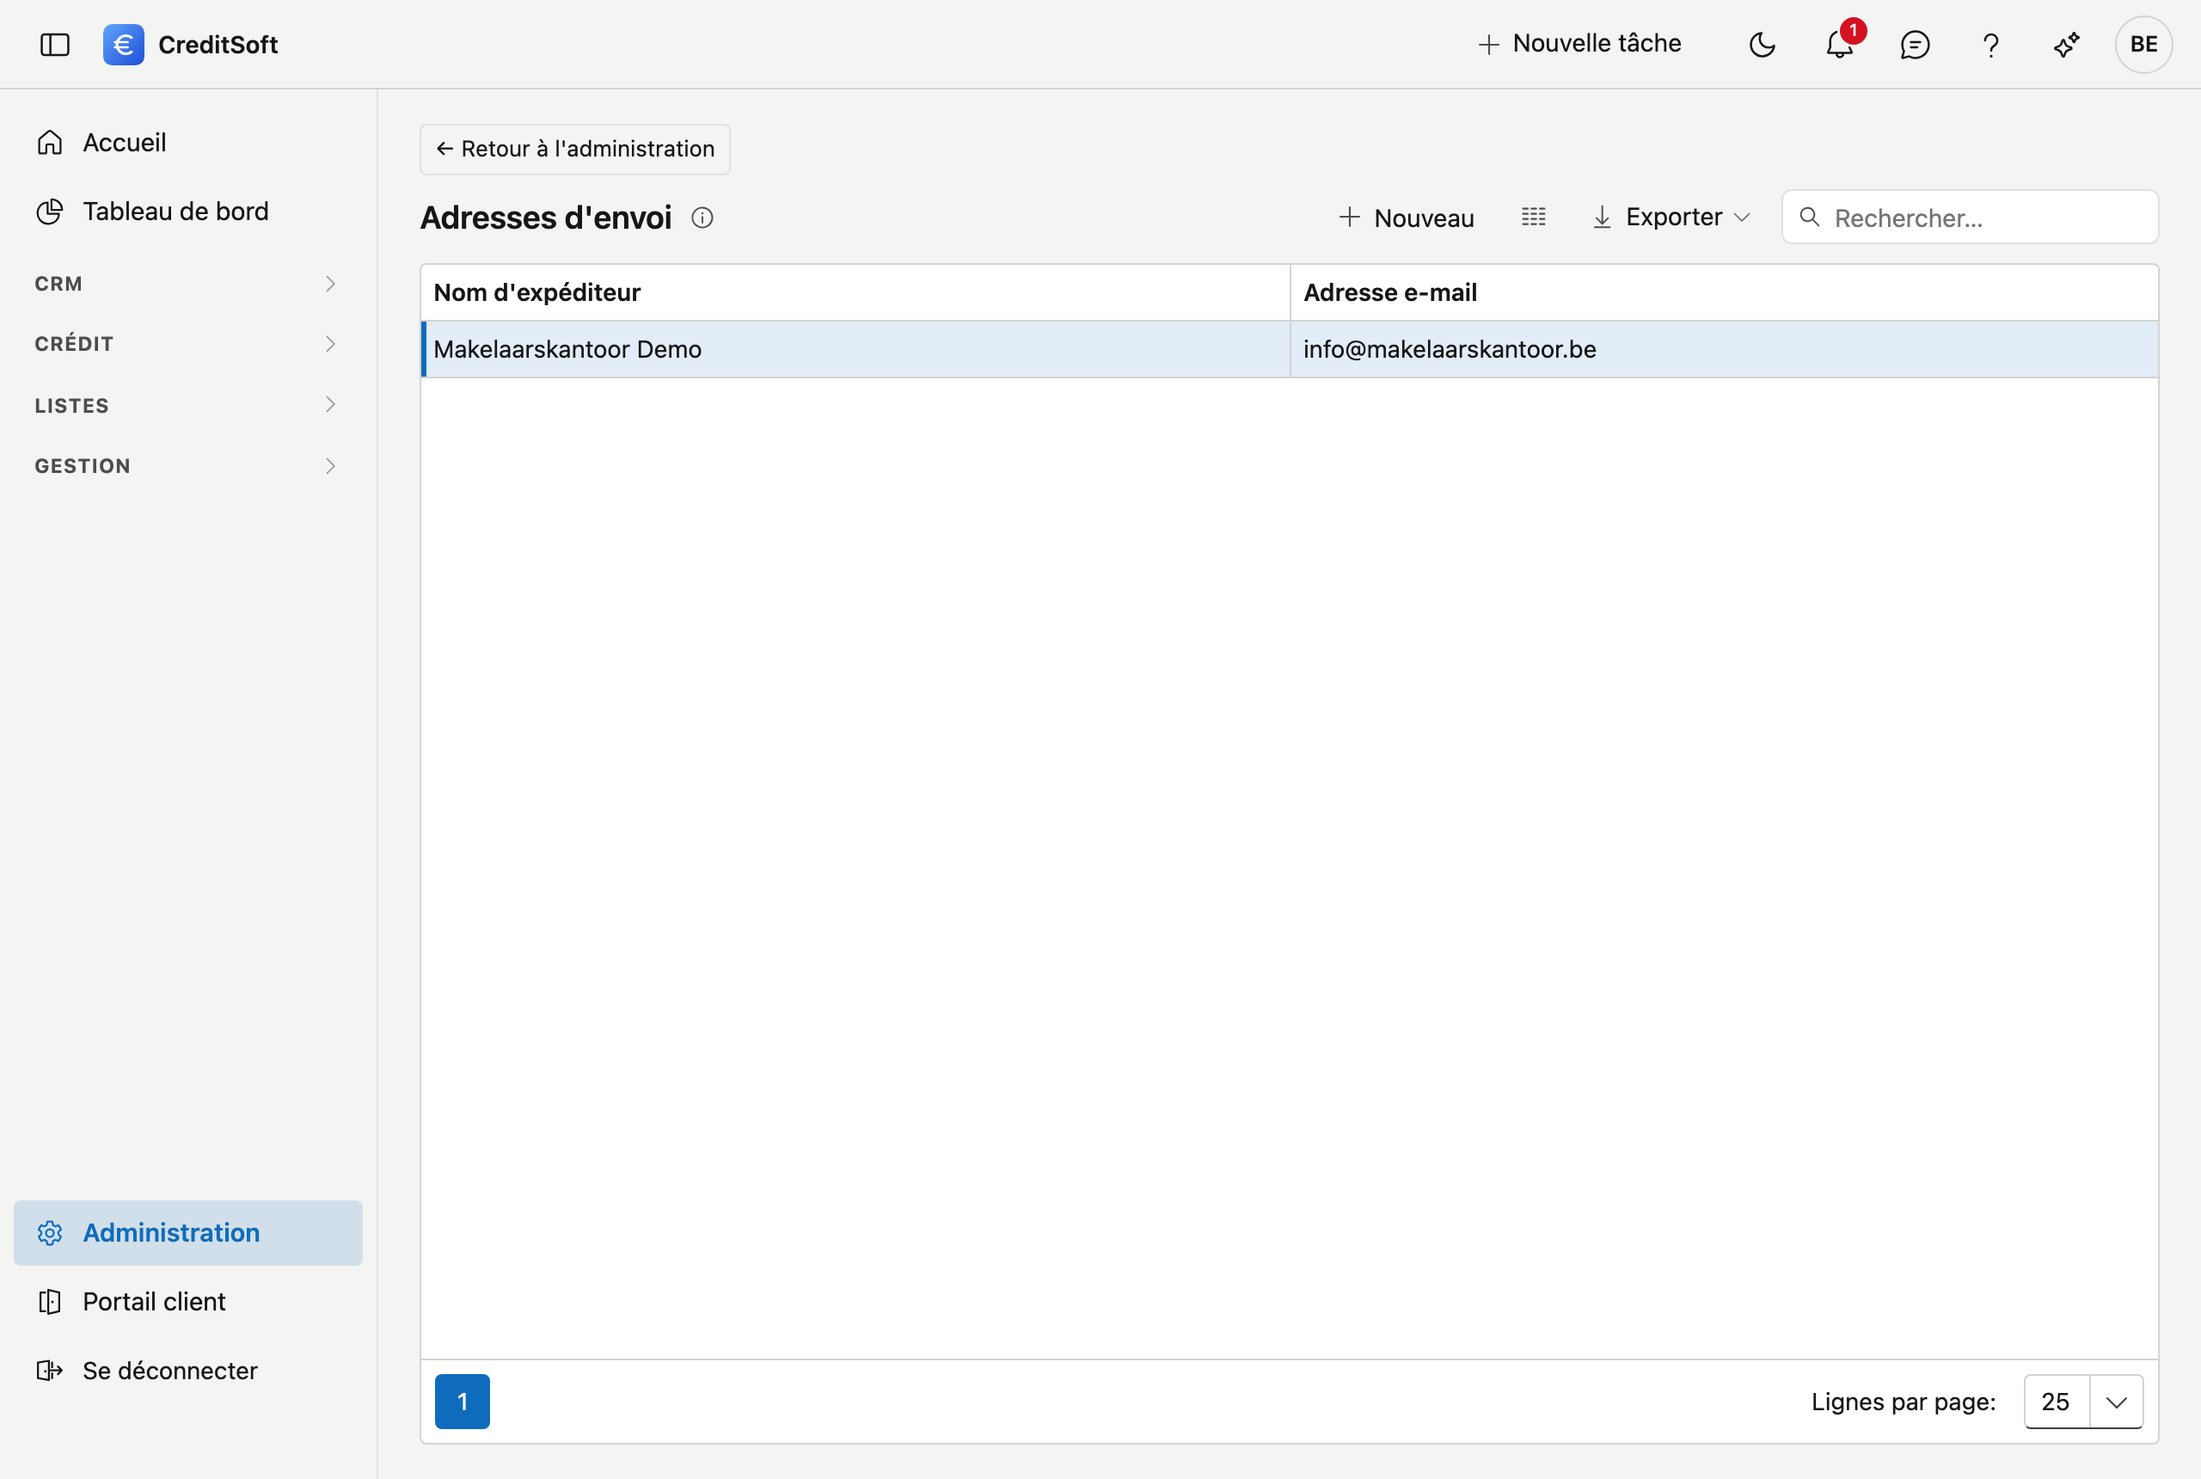
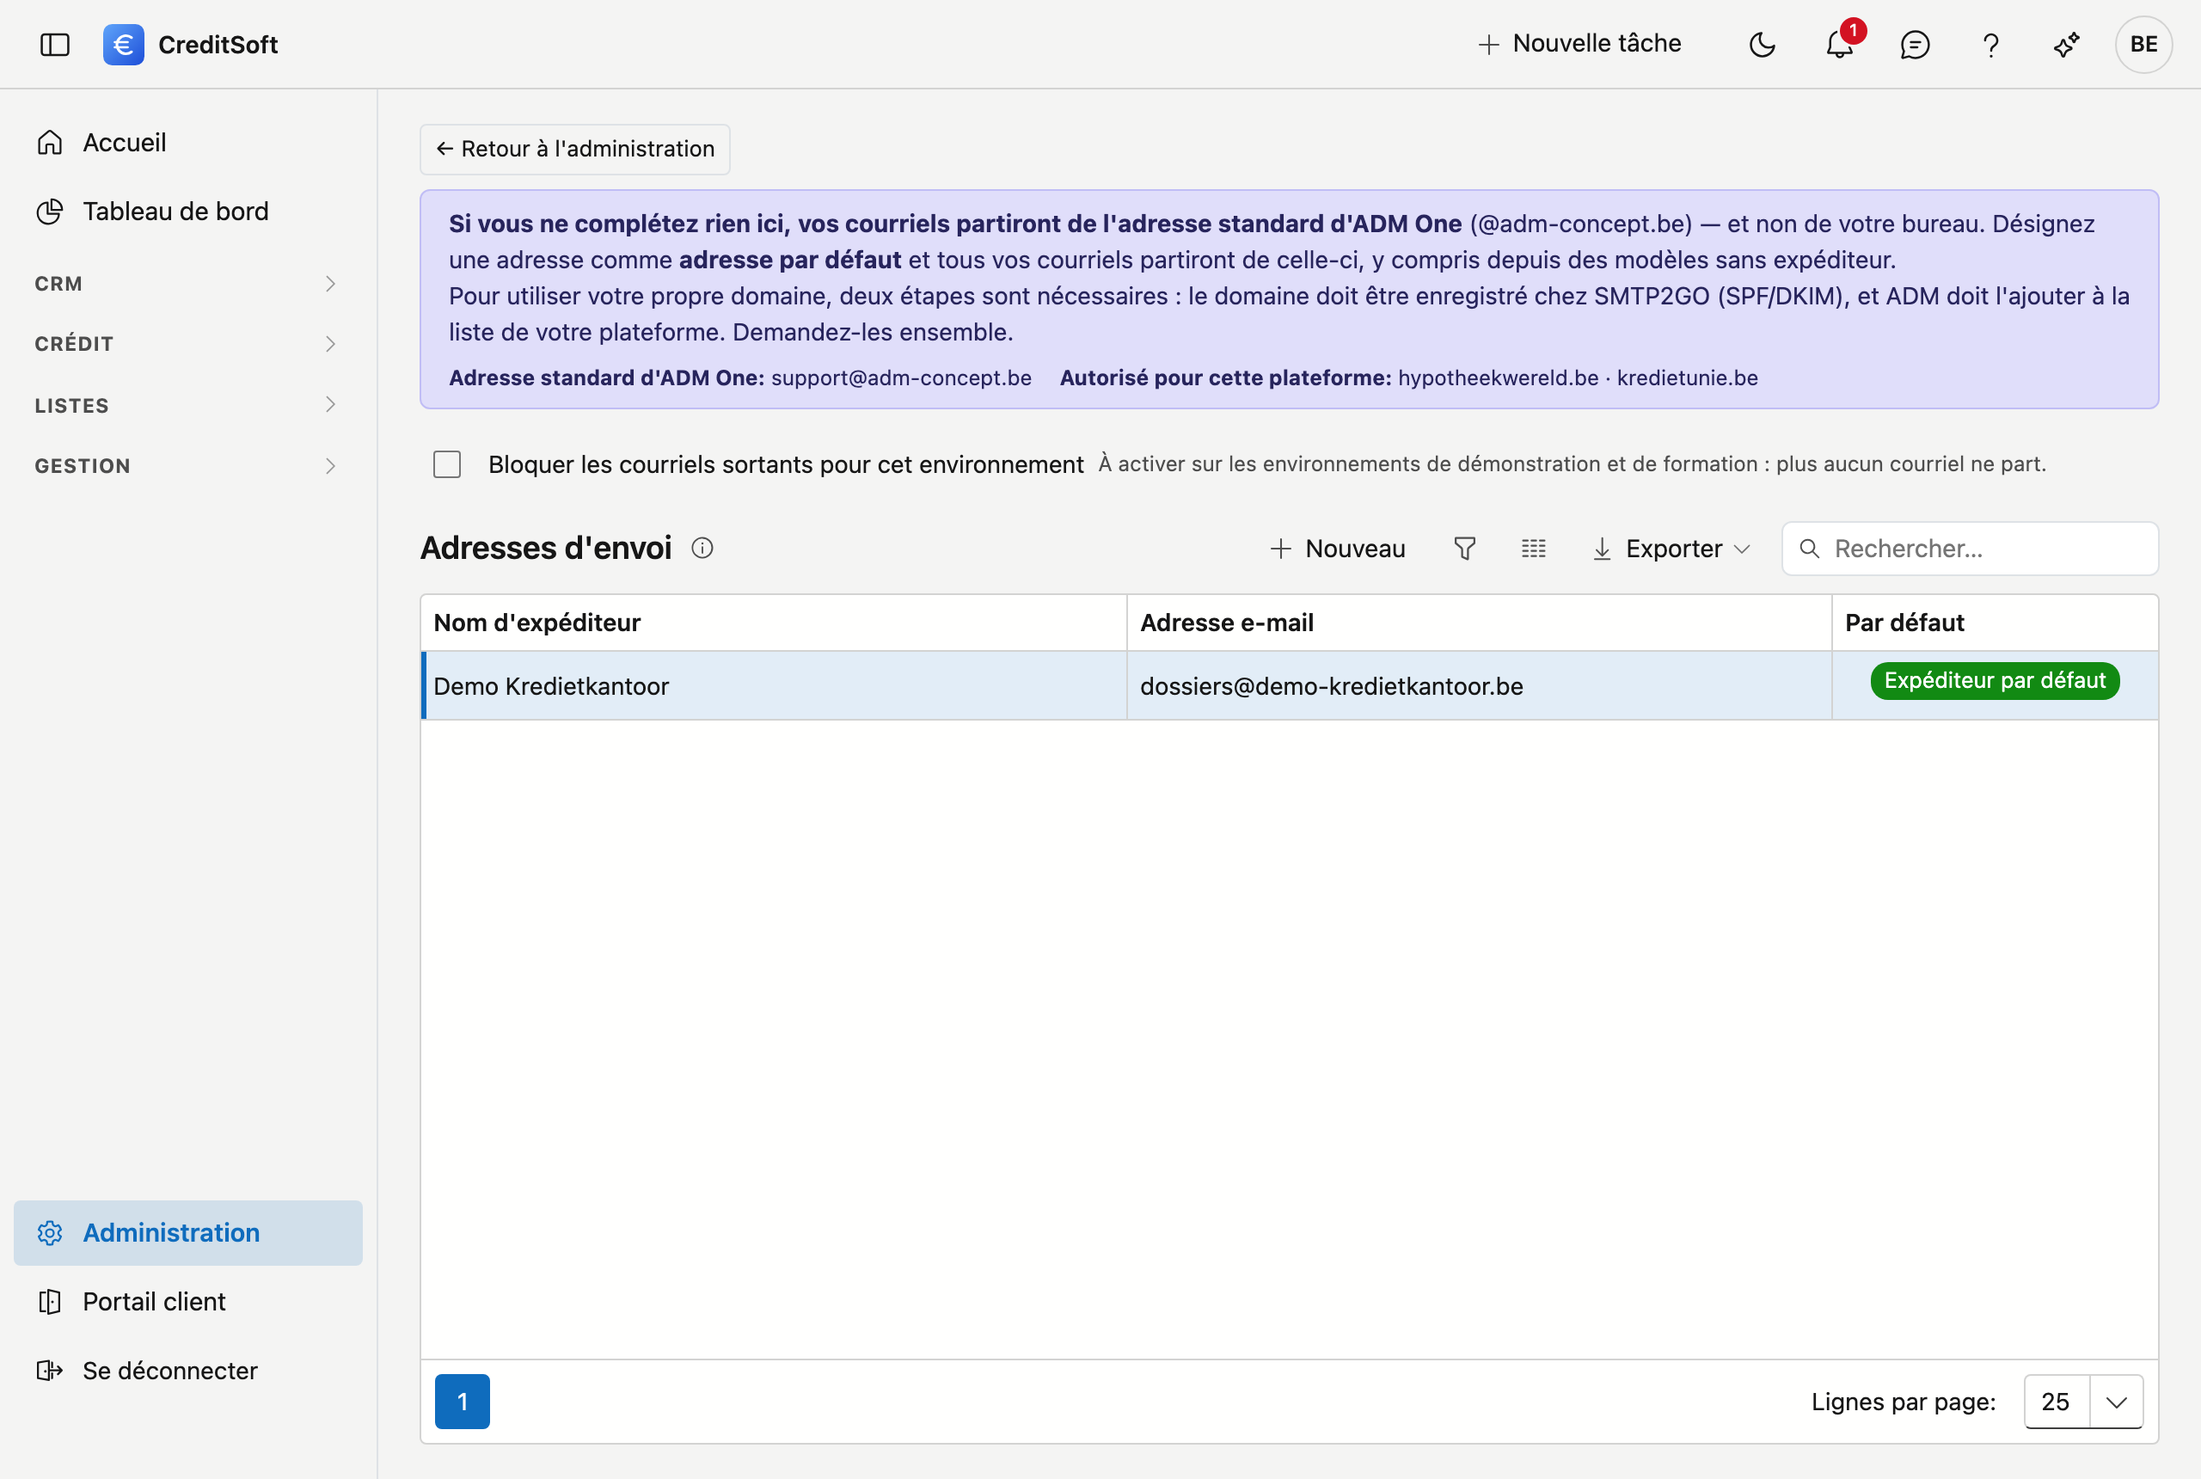
Handleiding Verzendadressen bijgewerkt (NL+FR)
De pagina bestond sinds 16/08 maar beschreef het scherm zoals het toen was: een lijstje
adressen dat je op een mailsjabloon koos. Sinds vandaag doet dat scherm meer, en het
belangrijkste stond er niet in — dat er zónder verzendadres helemaal niets verstuurd wordt.

Erbij:
* waarom het ertoe doet, in gewone taal: zonder eigen adres vertrekt uw mail op naam van
  uw softwareleverancier, en dan komt een dossieroverzicht bij een notaris aan onder de
  verkeerde naam;
* een adres als standaard aanduiden, en dat er altijd hoogstens één is;
* het eigen domein: wat groen en oranje betekenen, en de twee stappen (SMTP2GO + ADM);
* de schakelaar die uitgaande mail blokkeert, voor demo- en opleidingsomgevingen;
* een waarschuwingsblok met de twee fouten die hier het snelst gemaakt worden: een adres
  invullen zonder het als standaard aan te duiden, en een oranje waarschuwing wegklikken.

Beelden vernieuwd. ⚠ Genomen met de blokkade-schakelaar UIT, want dat is de normale
toestand bij een klant; op de demo-tenant staat hij daarna weer aan.

Het manifest vroeg twee beelden die niet meer kloppen met het scherm; vervangen door één
afgevinkt beeld en één openstaand van het bewerkvenster met de domeincontrole — dat vraagt
een geopende pop-up en kan het script niet.

diff --git a/docs/administration/sender-addresses.fr.md b/docs/administration/sender-addresses.fr.md
@@ -1,30 +1,68 @@
 # Adresses d'envoi
 
-Les adresses d'envoi sont les **adresses e-mail utilisables comme expéditeur** lorsque CreditSoft envoie des e-mails. Vous constituez ici une courte liste ; lors de la rédaction d'un modèle d'e-mail, vous choisissez ensuite l'adresse d'envoi à utiliser. L'envoi lui-même passe par la connexion e-mail sécurisée avec ADM One.
+Les adresses d'envoi sont les **adresses e-mail utilisées comme expéditeur** lorsque CreditSoft envoie des e-mails. Vous en constituez ici une courte liste et vous en désignez une comme **adresse par défaut**. L'envoi lui-même passe par la connexion e-mail sécurisée avec ADM One.
 
-![L'écran Adresses d'envoi dans CreditSoft : un tableau avec les colonnes Nom de l'expéditeur et E-mail, avec en haut les boutons pour ajouter une adresse et exporter.](../images/verzendadressen-fr.png "Les adresses avec lesquelles CreditSoft envoie vos e-mails")
+![L'écran Adresses d'envoi dans CreditSoft : en haut un encadré indiquant l'adresse standard d'ADM One et les domaines autorisés, en dessous un interrupteur pour bloquer les e-mails sortants, puis un tableau avec les colonnes Nom de l'expéditeur, Adresse e-mail et Par défaut.](../images/verzendadressen-fr.png "Les adresses avec lesquelles CreditSoft envoie vos e-mails")
 
 ## Ouvrir l'écran
 
 Dans la barre latérale, cliquez sur **Administration**, puis sur la tuile **Adresses d'envoi** (sous *Communication*). En haut de l'écran, le lien **← Retour à l'administration** vous ramène à l'aperçu.
 
+## Pourquoi c'est important
+
+Tant que vous ne désignez pas d'adresse d'envoi, CreditSoft ne peut envoyer aucun e-mail. C'est voulu : sans votre propre adresse, vos e-mails partiraient de l'adresse de votre fournisseur de logiciel, et un aperçu de dossier arriverait chez un notaire au nom de quelqu'un d'autre que votre bureau.
+
+Désignez donc **une adresse comme adresse par défaut**. Tous vos e-mails partiront alors de celle-ci — y compris depuis des modèles où aucun expéditeur n'est renseigné.
+
 ## La liste
 
-Le tableau affiche, pour chaque adresse d'envoi, le **nom d'expéditeur** et l'**adresse e-mail**.
+Le tableau indique, par adresse d'envoi, le **nom de l'expéditeur**, l'**adresse e-mail** et s'il s'agit de l'adresse **par défaut**.
 
+- **Définir par défaut** — cliquez sur ce bouton dans la colonne *Par défaut*. Il n'y a jamais plus d'une adresse par défaut ; la précédente perd automatiquement cette mention.
 - **Rechercher** — utilisez le champ de recherche.
-- **Exporter** — exportez la liste via Excel ou CSV.
+- **Exporter** — exportez la liste vers Excel ou CSV.
 - **Nouveau / modifier** — cliquez sur **Nouveau**, ou **double-cliquez** une ligne pour la modifier.
-- **Supprimer** — une adresse d'envoi est **archivée** (suppression douce), pas définitivement effacée.
+- **Supprimer** — une adresse d'envoi est **archivée**, et non définitivement effacée.
 
 ## Ajouter ou modifier une adresse d'envoi
 
-Une adresse d'envoi comporte deux champs, tous deux **obligatoires** (indiqués par un astérisque rouge) :
+Une adresse d'envoi comporte deux champs, tous deux **obligatoires** (signalés par un astérisque rouge) :
 
-- **Adresse e-mail** — l'adresse qui apparaît comme expéditeur, par exemple `info@votrebureau.be`. L'adresse doit avoir une forme valide.
-- **Nom d'expéditeur** — le nom que le destinataire voit comme expéditeur, par exemple *Bureau de courtage Exemple*.
+- **Adresse e-mail** — l'adresse qui apparaît comme expéditeur, par exemple `info@votrebureau.be`.
+- **Nom de l'expéditeur** — le nom que le destinataire verra comme expéditeur, par exemple *Bureau de courtage Exemple*.
 
-Saisissez les champs et cliquez sur **Enregistrer**. La suppression se fait dans le même écran d'édition.
+Complétez les champs et cliquez sur **Enregistrer**. La suppression se fait dans ce même écran de modification.
 
-!!! tip "Où est-ce utilisé ?"
-    Une adresse de cette liste se choisit ensuite comme expéditeur sur un **modèle d'e-mail**. Vous ne saisissez donc l'adresse qu'une seule fois et l'utilisez partout de façon cohérente.
+## Utiliser votre propre domaine
+
+En haut de l'écran, deux informations apparaissent : l'**adresse standard d'ADM One** et les **domaines autorisés** pour votre plateforme.
+
+Pendant que vous saisissez une adresse, CreditSoft vérifie le domaine par rapport à cette liste :
+
+- **Vert** — le domaine est enregistré. Les e-mails de cette adresse partiront au nom de votre bureau.
+- **Orange** — le domaine n'est pas encore enregistré. Vous pouvez enregistrer et utiliser l'adresse, mais la distribution pourrait s'interrompre plus tard.
+
+Pour faire enregistrer votre propre domaine, **deux étapes** sont nécessaires, et vous avez besoin des deux :
+
+1. Le domaine doit être enregistré chez **SMTP2GO** (SPF/DKIM).
+2. **ADM** ajoute le domaine à la liste de votre plateforme.
+
+Demandez les deux ensemble à votre personne de contact chez ADM.
+
+## Bloquer les e-mails sortants
+
+L'interrupteur **Bloquer les e-mails sortants pour cet environnement** retient tous les e-mails sortants. Utilisez-le sur les environnements de **démonstration et de formation** : rien ne peut alors partir par erreur vers un destinataire réel. Toute tentative d'envoi affiche un message clair et l'e-mail n'est pas envoyé.
+
+Sur votre propre environnement de travail, laissez cet interrupteur désactivé.
+
+## Erreurs fréquentes
+
+!!! warning
+    **Compléter une adresse n'équivaut pas à la désigner par défaut.** Si une adresse figure dans la liste sans qu'aucune ne soit désignée par défaut, et que votre modèle d'e-mail ne renvoie pas non plus à un expéditeur, l'envoi reste impossible. Vérifiez dans la colonne *Par défaut* qu'une adresse y est bien signalée en vert.
+
+    **Un avertissement orange n'est pas un blocage, mais ne l'ignorez pas.** Votre e-mail part encore aujourd'hui, mais tant que le domaine n'est pas enregistré, la distribution peut s'interrompre plus tard. Demandez l'enregistrement dès que vous mettez l'adresse en service.
+
+## Voir aussi
+
+- [Modèles d'e-mail](mail-templates.md) — vous y choisissez un expéditeur par modèle ; celui-ci prime sur l'adresse par défaut.
+- [Suivi des e-mails](mail-monitoring.md) — vous y suivez si vos e-mails ont effectivement été distribués.

diff --git a/docs/administration/sender-addresses.md b/docs/administration/sender-addresses.md
@@ -1,30 +1,68 @@
 # Verzendadressen
 
-Verzendadressen zijn de **e-mailadressen die als afzender** gebruikt kunnen worden wanneer CreditSoft e-mails verstuurt. U legt hier een korte lijst aan; bij het opstellen van een mailsjabloon kiest u vervolgens welk verzendadres gebruikt wordt. Het versturen zelf verloopt via de beveiligde mailkoppeling met ADM One.
+Verzendadressen zijn de **e-mailadressen die als afzender** gebruikt worden wanneer CreditSoft e-mails verstuurt. U legt hier een korte lijst aan en duidt er één aan als **standaard**. Het versturen zelf verloopt via de beveiligde mailkoppeling met ADM One.
 
-![Het scherm Verzendadressen in CreditSoft: een tabel met de kolommen Afzendernaam en E-mail, met bovenaan de knoppen om een adres toe te voegen en te exporteren.](../images/verzendadressen.png "De adressen waarmee CreditSoft uw mails verstuurt")
+![Het scherm Verzendadressen in CreditSoft: bovenaan een kader met het standaardadres van ADM One en de toegelaten domeinen, daaronder een schakelaar om uitgaande mail te blokkeren, en een tabel met de kolommen Verzendnaam, E-mailadres en Standaard.](../images/verzendadressen.png "De adressen waarmee CreditSoft uw mails verstuurt")
 
 ## Het scherm openen
 
 Klik in de zijbalk op **Platformbeheer** en daarna op de tegel **Verzendadressen** (onder *Communicatie*). Bovenaan het scherm brengt de link **← Terug naar platformbeheer** u terug naar het overzicht.
 
+## Waarom dit belangrijk is
+
+Zolang u geen verzendadres aanduidt, kan CreditSoft geen mail versturen. Dat is met opzet: zonder uw eigen adres zou uw mail vertrekken van het adres van uw softwareleverancier, en dan komt een dossieroverzicht bij een notaris aan op naam van iemand anders dan uw kantoor.
+
+Duid daarom **één adres aan als standaard**. Alle mail vertrekt dan van dat adres — ook vanuit sjablonen waar geen afzender bij ingevuld staat.
+
 ## De lijst
 
-De tabel toont per verzendadres de **verzendnaam** en het **e-mailadres**.
+De tabel toont per verzendadres de **verzendnaam**, het **e-mailadres** en of het de **standaard** is.
 
+- **Als standaard instellen** — klik op die knop in de kolom *Standaard*. Er is altijd hoogstens één standaardadres; het vorige verliest de aanduiding vanzelf.
 - **Zoeken** — gebruik het zoekveld om te zoeken.
 - **Exporteren** — exporteer de lijst naar Excel of CSV.
 - **Nieuw / bewerken** — klik op **Nieuw**, of **dubbelklik** een rij om ze te bewerken.
-- **Verwijderen** — een verzendadres wordt **gearchiveerd** (soft-delete), niet definitief gewist.
+- **Verwijderen** — een verzendadres wordt **gearchiveerd**, niet definitief gewist.
 
 ## Een verzendadres toevoegen of bewerken
 
 Een verzendadres heeft twee velden, allebei **verplicht** (aangeduid met een rood sterretje):
 
-- **E-mailadres** — het adres dat als afzender verschijnt, bijvoorbeeld `info@uwkantoor.be`. Het adres moet een geldige vorm hebben.
+- **E-mailadres** — het adres dat als afzender verschijnt, bijvoorbeeld `info@uwkantoor.be`.
 - **Verzendnaam** — de naam die de ontvanger als afzender te zien krijgt, bijvoorbeeld *Makelaarskantoor Voorbeeld*.
 
 Vul de velden in en klik op **Opslaan**. Verwijderen doet u in hetzelfde bewerkscherm.
 
-!!! tip "Waar wordt dit gebruikt?"
-    Een verzendadres uit deze lijst kiest u later op een **mailsjabloon** als afzender. Zo hoeft u het adres maar één keer in te geven en gebruikt u het overal consequent.
+## Uw eigen domein gebruiken
+
+Bovenaan het scherm ziet u twee dingen: het **standaardadres van ADM One**, en welke **domeinen toegelaten zijn** voor uw platform.
+
+Terwijl u een adres intikt, controleert CreditSoft het domein tegen die lijst:
+
+- **Groen** — het domein is geregistreerd. Mail van dit adres vertrekt op naam van uw kantoor.
+- **Oranje** — het domein is nog niet geregistreerd. U kan het adres wél bewaren en gebruiken, maar de aflevering kan later stilvallen.
+
+Om een eigen domein te laten registreren zijn er **twee stappen**, en u hebt ze allebei nodig:
+
+1. Het domein moet bij **SMTP2GO** geregistreerd zijn (SPF/DKIM).
+2. **ADM** zet het domein op de lijst van uw platform.
+
+Vraag die twee samen aan bij uw contactpersoon bij ADM.
+
+## Uitgaande mail blokkeren
+
+Met de schakelaar **Uitgaande mail blokkeren voor deze omgeving** houdt u alle uitgaande mail tegen. Gebruik dat op **demonstratie- en opleidingsomgevingen**: er kan dan niets per ongeluk naar een echte ontvanger vertrekken. Wie toch probeert te versturen, krijgt een nette melding en de mail blijft achterwege.
+
+Op uw eigen werkomgeving laat u die schakelaar uit staan.
+
+## Veelgemaakte fouten
+
+!!! warning
+    **Een adres invullen is niet hetzelfde als het aanduiden als standaard.** Staat er een adres in de lijst maar is er geen standaard aangeduid, en verwijst uw mailsjabloon ook niet naar een afzender, dan kan er nog steeds niet verstuurd worden. Kijk in de kolom *Standaard* of er één groen aangeduid staat.
+
+    **Een oranje waarschuwing is geen blokkade, maar negeer ze niet.** Uw mail vertrekt vandaag nog, maar zolang het domein niet geregistreerd is, kan de aflevering later stilvallen. Vraag de registratie aan zodra u het adres in gebruik neemt.
+
+## Zie ook
+
+- [Mailsjablonen](mail-templates.md) — daar kiest u per sjabloon een afzender; die krijgt voorrang op de standaard.
+- [Mailmonitoring](mail-monitoring.md) — daar volgt u op of uw mails effectief afgeleverd zijn.

diff --git a/BEELD-MANIFEST.md b/BEELD-MANIFEST.md
@@ -97,8 +97,14 @@
 ## Beheer → Verzendadressen (`administration/sender-addresses.md`)
 
 - [ ] `platformbeheer-hub.png` — de hub-pagina **Platformbeheer** met de groep *Communicatie* en de tegel *Verzendadressen*. Plaats bij "Het scherm openen".
-- [ ] `verzendadressen-lijst.png` — het lijstscherm (verzendnaam + e-mailadres, "Nieuw"-knop, terug-link bovenaan). Plaats bij "De lijst".
-- [ ] `verzendadressen-bewerken.png` — het bewerkscherm met de twee verplichte velden (e-mailadres + verzendnaam, rood sterretje). Plaats bij "Een verzendadres toevoegen of bewerken".
+- [x] `verzendadressen.png` + `-fr` — het volledige scherm: het kader met het standaardadres van ADM One en de
+      toegelaten domeinen, de schakelaar om uitgaande mail te blokkeren, en de tabel met de kolom **Standaard**
+      waarin het standaardadres groen aangeduid staat. Vernieuwd 17/08/2026.
+      ⚠ Genomen met de blokkade-schakelaar **uit**: dat is de normale toestand bij een klant. Op de demo-tenant
+      staat hij daarna weer aan, anders kan een demonstratie echte mail versturen.
+- [ ] `verzendadressen-bewerken.png` — het bewerkscherm met de twee verplichte velden én de domeincontrole
+      eronder (groen bij een geregistreerd domein, oranje bij een onbekend). Plaats bij "Uw eigen domein
+      gebruiken". ⚠ Vraagt een geopende pop-up, dus niet met het huidige script te maken.
 
 ## Beheer → Prullenbak (`administration/recycle-bin.md`)
 
